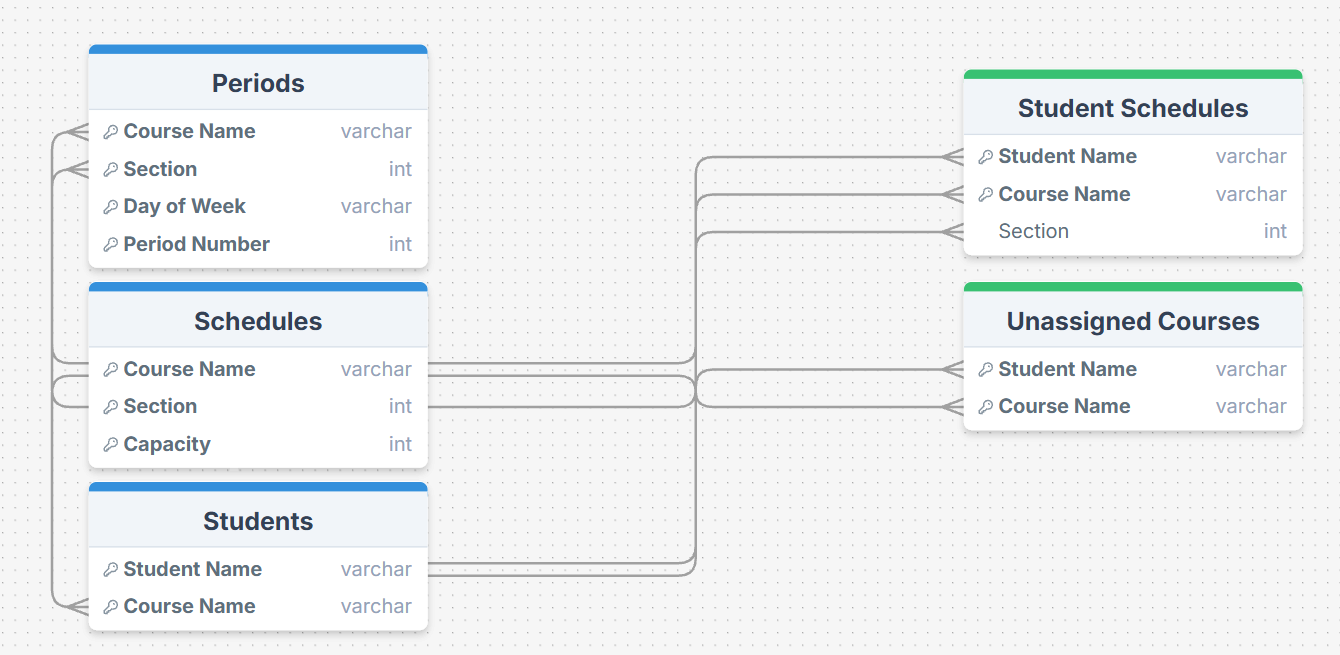
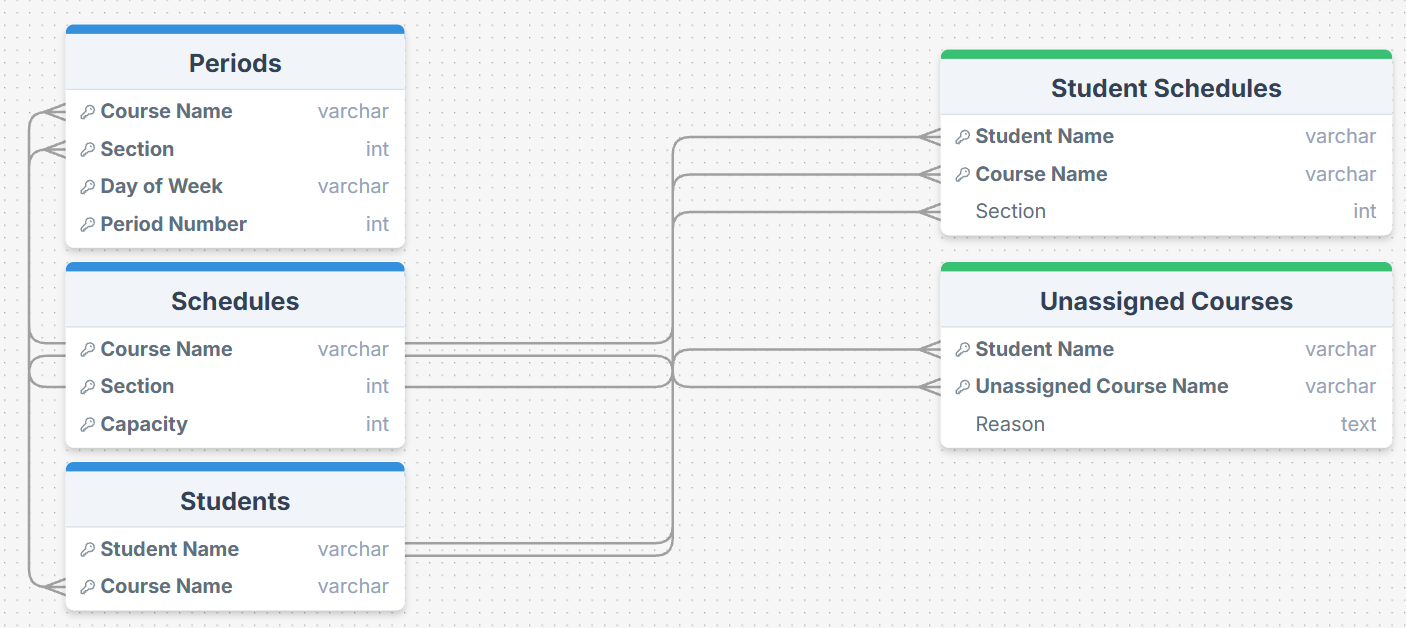
Updated DB Schema Like Pic

diff --git a/PythonBackEnd/src/app.py b/PythonBackEnd/src/app.py
@@ -1,6 +1,6 @@
 from flask import Flask, request, jsonify, session
 import pandas as pd
-from models import db, Students, Schedules, Periods, ValidationResults, OptimizationResults
+from models import db, Students, Schedules, Periods, ValidationResults, StudentSchedules, UnassignedCourses
 from data_validation.schedule_data_validator import ScheduleDataValidator
 from optimization.schedule_optimizer import ScheduleOptimizer
 from utils import normalize_dataframe
@@ -31,6 +31,11 @@ def get_user_uploaded_data(user_id):
     if students.empty or schedules.empty or periods.empty:
         return None, None, None
     return students, schedules, periods
+
+def is_data_optimized(user_id):
+    assigned_exists = db.session.query(StudentSchedules.query.filter_by(user_id=user_id).exists()).scalar()
+    unassigned_exists = db.session.query(UnassignedCourses.query.filter_by(user_id=user_id).exists()).scalar()
+    return assigned_exists or unassigned_exists
 
 @app.route('/mock_login')
 def mock_login():
@@ -81,7 +86,9 @@ def upload_data():
         Schedules.query.filter_by(user_id=user_id).delete()
         Periods.query.filter_by(user_id=user_id).delete()
         ValidationResults.query.filter_by(user_id=user_id).delete()
-        OptimizationResults.query.filter_by(user_id=user_id).delete()
+        StudentSchedules.query.filter_by(user_id=user_id).delete()
+        UnassignedCourses.query.filter_by(user_id=user_id).delete()
+        db.session.commit()
         db.session.commit()
 
 
@@ -119,12 +126,17 @@ def upload_data():
 @require_login
 def validate_data():
     user_id = session.get('user_id')  # Set after SSO
-    
+
     students, schedules, periods = get_user_uploaded_data(user_id)
     if not all([students is not None, schedules is not None, periods is not None]):
         return jsonify({"status": "Error", "message": "Data not uploaded"}), 400
+
     validator = ScheduleDataValidator()
     valid, errors = validator.validate(students, schedules, periods)
+
+    # Remove old validation result for this user
+    ValidationResults.query.filter_by(user_id=user_id).delete()
+    db.session.commit()
 
     db.session.add(ValidationResults(user_id=user_id, valid=valid, errors=errors))
     db.session.commit()
@@ -154,117 +166,149 @@ def optimize_schedule():
     optimizer = ScheduleOptimizer()
     optimizer.run_solver(students, schedules, periods)
     
-    # Serialize only the assignments
-    assignments = optimizer.get_assignments()
+    # Get assignments and unassigned courses
+    assigned = optimizer.get_assigned_courses()  # DataFrame: Student Name, Course Name, Section
+    unassigned = optimizer.get_unassigned_courses()  # DataFrame: Student Name, Course Name
 
-    # Store the assignments in the optimization_results table (as JSON)
-    db.session.add(OptimizationResults(user_id=user_id, assignments_json=assignments))
+    # Remove old results for this user
+    StudentSchedules.query.filter_by(user_id=user_id).delete()
+    UnassignedCourses.query.filter_by(user_id=user_id).delete()
+    db.session.commit()
+
+    # Insert assigned courses
+    for _, row in assigned.iterrows():
+        db.session.add(StudentSchedules(
+            user_id=user_id,
+            student_name=row['Student Name'],
+            course_name=row['Course Name'],
+            section=int(row['Section'])
+        ))
+
+    # Insert unassigned courses
+    for _, row in unassigned.iterrows():
+        db.session.add(UnassignedCourses(
+            user_id=user_id,
+            student_name=row['Student Name'],
+            unassigned_course_name=row['Unassigned Course Name'],
+            reason=row['Reason'] if 'Reason' in row else 'No reason provided'
+        ))
+
     db.session.commit()
 
     return jsonify({"status": "Success", "message": "Optimization complete, assignments stored"})
 
-
-def get_optimizer_for_user():
-    user_id = session.get('user_id')
-    if not user_id:
-        return None, jsonify({"status": "Error", "message": "Not authenticated"}), 401
-    opt_result = OptimizationResults.query.filter_by(user_id=user_id).order_by(OptimizationResults.created_at.desc()).first()
-    if not opt_result or not opt_result.assignments_json:
-        return None, jsonify({"status": "Error", "message": "Optimization not run"}), 400
-    try:
-        assignments = opt_result.assignments_json
-        students, schedules, periods = get_user_uploaded_data(user_id)
-        optimizer = ScheduleOptimizer()
-        optimizer.run_solver(students, schedules, periods)
-        optimizer.set_assignments(assignments)
-        return optimizer, None, None
-    except Exception:
-        return None, jsonify({"status": "Error", "message": "Failed to load optimizer"}), 500
-
 @app.route('/assigned_courses', methods=['GET'])
 @require_login
 def get_assigned_courses():
-    optimizer, error_response, status = get_optimizer_for_user()
-    if error_response:
-        return error_response, status
-    df = optimizer.get_assigned_courses()
-    return df.to_json(orient='records')
+    user_id = session.get('user_id')
+    if not is_data_optimized(user_id):
+        return jsonify({"status": "Error", "message": "Data not optimized"}), 400
+    results = StudentSchedules.query.filter_by(user_id=user_id).all()
+    data = [
+        {
+            "Student Name": r.student_name,
+            "Course Name": r.course_name,
+            "Section": r.section
+        }
+        for r in results
+    ]
+    return jsonify(data)
 
 @app.route('/unassigned_courses', methods=['GET'])
 @require_login
 def get_unassigned_courses():
-    optimizer, error_response, status = get_optimizer_for_user()
-    if error_response:
-        return error_response, status
-    df = optimizer.get_unassigned_courses()
-    return df.to_json(orient='records')
+    user_id = session.get('user_id')
+    if not is_data_optimized(user_id):
+        return jsonify({"status": "Error", "message": "Data not optimized"}), 400
+    results = UnassignedCourses.query.filter_by(user_id=user_id).all()
+    data = [
+        {
+            "Student Name": r.student_name,
+            "Unassigned Course Name": r.unassigned_course_name,
+            "Reason": r.reason
+        }
+        for r in results
+    ]
+    return jsonify(data)
 
 @app.route('/class_roster', methods=['GET'])
 @require_login
 def get_class_roster():
-    optimizer, error_response, status = get_optimizer_for_user()
-    if error_response:
-        return error_response, status
+    user_id = session.get('user_id')
+    if not is_data_optimized(user_id):
+        return jsonify({"status": "Error", "message": "Data not optimized"}), 400
     course = request.args.get('course')
     section = request.args.get('section')
     if not course or not section:
         return jsonify({"status": "Error", "message": "Missing course or section parameter"}), 400
-    try:
-        schedules_df = pd.read_sql(Schedules.query.filter_by(user_id=session.get('user_id')).statement, db.engine)
-        match = (schedules_df['Course Name'].str.lower() == course.strip().lower()) & (schedules_df['Section'].astype(str) == str(section))
-        if not match.any():
-            return jsonify({"status": "Error", "message": "The given course/section does not exist"}), 404
-        course_name = schedules_df.loc[match, 'Course Name'].iloc[0]
-        section_num = schedules_df.loc[match, 'Section'].iloc[0]
-        df = optimizer.get_class_roster(course_name, section_num)
-        if isinstance(df, str):
-            return jsonify({"status": "Error", "message": df}), 404
-        # Return empty list if no students are registered
-        return df.to_json(orient='records')
-    except Exception:
+
+    # Check if the course/section exists in the Schedules table
+    exists = Schedules.query.filter_by(
+        user_id=user_id,
+        course_name=course,
+        section=int(section)
+    ).first()
+    if not exists:
         return jsonify({"status": "Error", "message": "The given course/section does not exist"}), 404
+
+    # Get students registered for this course/section
+    results = StudentSchedules.query.filter_by(
+        user_id=user_id,
+        course_name=course,
+        section=int(section)
+    ).all()
+    student_names = [r.student_name for r in results]
+    return jsonify(student_names)
 
 @app.route('/student_schedule', methods=['GET'])
 @require_login
 def get_student_schedule():
-    optimizer, error_response, status = get_optimizer_for_user()
-    if error_response:
-        return error_response, status
+    user_id = session.get('user_id')
+    if not is_data_optimized(user_id):
+        return jsonify({"status": "Error", "message": "Data not optimized"}), 400
     student = request.args.get('student')
     if not student:
         return jsonify({"status": "Error", "message": "Missing student parameter"}), 400
-    try:
-        students_df = pd.read_sql(Students.query.filter_by(user_id=session.get('user_id')).statement, db.engine)
-        match = students_df['Student Name'].str.lower() == student.strip().lower()
-        if not match.any():
-            return jsonify({"status": "Error", "message": "Student does not exist"}), 404
-        student = students_df.loc[match, 'Student Name'].iloc[0]
-        df = optimizer.get_student_schedule(student)
-        if df is None or (hasattr(df, 'empty') and df.empty):
-            return jsonify({"status": "Error", "message": "Student does not exist"}), 404
-        return df.to_json()
-    except Exception:
-        return jsonify({"status": "Error", "message": "Student does not exist"}), 404
+    results = StudentSchedules.query.filter_by(
+        user_id=user_id,
+        student_name=student
+    ).all()
+    data = [
+        {
+            "Course Name": r.course_name,
+            "Section": r.section
+        }
+        for r in results
+    ]
+    return jsonify(data)
 
 @app.route('/all_class_rosters', methods=['GET'])
 @require_login
 def get_all_class_rosters():
-    optimizer, error_response, status = get_optimizer_for_user()
-    if error_response:
-        return error_response, status
-    rosters = optimizer.get_all_class_rosters()
-    result = {str(k): v.to_dict(orient='records') for k, v in rosters.items()}
-    return jsonify(result)
+    user_id = session.get('user_id')
+    if not is_data_optimized(user_id):
+        return jsonify({"status": "Error", "message": "Data not optimized"}), 400
+    results = StudentSchedules.query.filter_by(user_id=user_id).all()
+    rosters = {}
+    for r in results:
+        key = f"{r.course_name}.{r.section}"
+        rosters.setdefault(key, []).append(r.student_name)
+    return jsonify(rosters)
 
 @app.route('/all_student_schedules', methods=['GET'])
 @require_login
 def get_all_student_schedules():
-    optimizer, error_response, status = get_optimizer_for_user()
-    if error_response:
-        return error_response, status
-    schedules = optimizer.get_all_student_schedules()
-    result = {k: v.to_dict() for k, v in schedules.items()}
-    return jsonify(result)
+    user_id = session.get('user_id')
+    if not is_data_optimized(user_id):
+        return jsonify({"status": "Error", "message": "Data not optimized"}), 400
+    results = StudentSchedules.query.filter_by(user_id=user_id).all()
+    schedules = {}
+    for r in results:
+        schedules.setdefault(r.student_name, []).append({
+            "Course Name": r.course_name,
+            "Section": r.section
+        })
+    return jsonify(schedules)
 
 if __name__ == '__main__':
     app.run(debug=True)

diff --git a/PythonBackEnd/src/models.py b/PythonBackEnd/src/models.py
@@ -21,7 +21,7 @@ class Schedules(db.Model):
     id = db.Column('ID', db.Integer, primary_key=True)
     user_id = db.Column('User ID', db.String(128), db.ForeignKey('users.ID', ondelete='CASCADE'), nullable=False)
     course_name = db.Column('Course Name', db.String(255), nullable=False)
-    section = db.Column('Section', db.String(64), nullable=False)
+    section = db.Column('Section', db.Integer, nullable=False)
     capacity = db.Column('Capacity', db.Integer, nullable=False)
 
 class Periods(db.Model):
@@ -29,16 +29,9 @@ class Periods(db.Model):
     id = db.Column('ID', db.Integer, primary_key=True)
     user_id = db.Column('User ID', db.String(128), db.ForeignKey('users.ID', ondelete='CASCADE'), nullable=False)
     course_name = db.Column('Course Name', db.String(255), nullable=False)
-    section = db.Column('Section', db.String(64), nullable=False)
+    section = db.Column('Section', db.Integer, nullable=False)
     day_of_week = db.Column('Day of Week', db.String(32), nullable=False)
     period_number = db.Column('Period Number', db.Integer, nullable=False)
-
-class OptimizationResults(db.Model):
-    __tablename__ = 'optimization_results'
-    id = db.Column('ID', db.Integer, primary_key=True)
-    user_id = db.Column('User ID', db.String(128), db.ForeignKey('users.ID', ondelete='CASCADE'), nullable=False)
-    assignments_json = db.Column('Assignments', db.JSON, nullable=False)
-    created_at = db.Column('Created At', db.DateTime, server_default=db.func.now())
 
 class ValidationResults(db.Model):
     __tablename__ = 'validation_results'
@@ -47,3 +40,19 @@ class ValidationResults(db.Model):
     valid = db.Column('Valid', db.Boolean, nullable=False)
     errors = db.Column('Errors', db.JSON, nullable=True)
     created_at = db.Column('Created At', db.DateTime, server_default=db.func.now())
+
+class StudentSchedules(db.Model):
+    __tablename__ = 'assigned_courses'
+    id = db.Column('ID', db.Integer, primary_key=True)
+    user_id = db.Column('User ID', db.String(128), db.ForeignKey('users.ID', ondelete='CASCADE'), nullable=False)
+    student_name = db.Column('Student Name', db.String(255), nullable=False)
+    course_name = db.Column('Course Name', db.String(255), nullable=False)
+    section = db.Column('Section', db.Integer, nullable=False)
+
+class UnassignedCourses(db.Model):
+    __tablename__ = 'unassigned_courses'
+    id = db.Column('ID', db.Integer, primary_key=True)
+    user_id = db.Column('User ID', db.String(128), db.ForeignKey('users.ID', ondelete='CASCADE'), nullable=False)
+    student_name = db.Column('Student Name', db.String(255), nullable=False)
+    unassigned_course_name = db.Column('Unassigned Course Name', db.String(255), nullable=False)
+    reason = db.Column('Reason', db.Text, nullable=False)

diff --git a/PythonBackEnd/src/optimization/schedule_optimizer.py b/PythonBackEnd/src/optimization/schedule_optimizer.py
@@ -233,7 +233,7 @@ class ScheduleOptimizer:
                     else:
                         reason = "Unknown"
                     unassigned.append((s, c, reason))
-        return pd.DataFrame(unassigned, columns=["Student Name", "Unassigned Course", "Reason"])
+        return pd.DataFrame(unassigned, columns=["Student Name", "Unassigned Course Name", "Reason"])
 
     # --- Output class rosters for a given course and section ---
     def get_class_roster(self, course, section):
